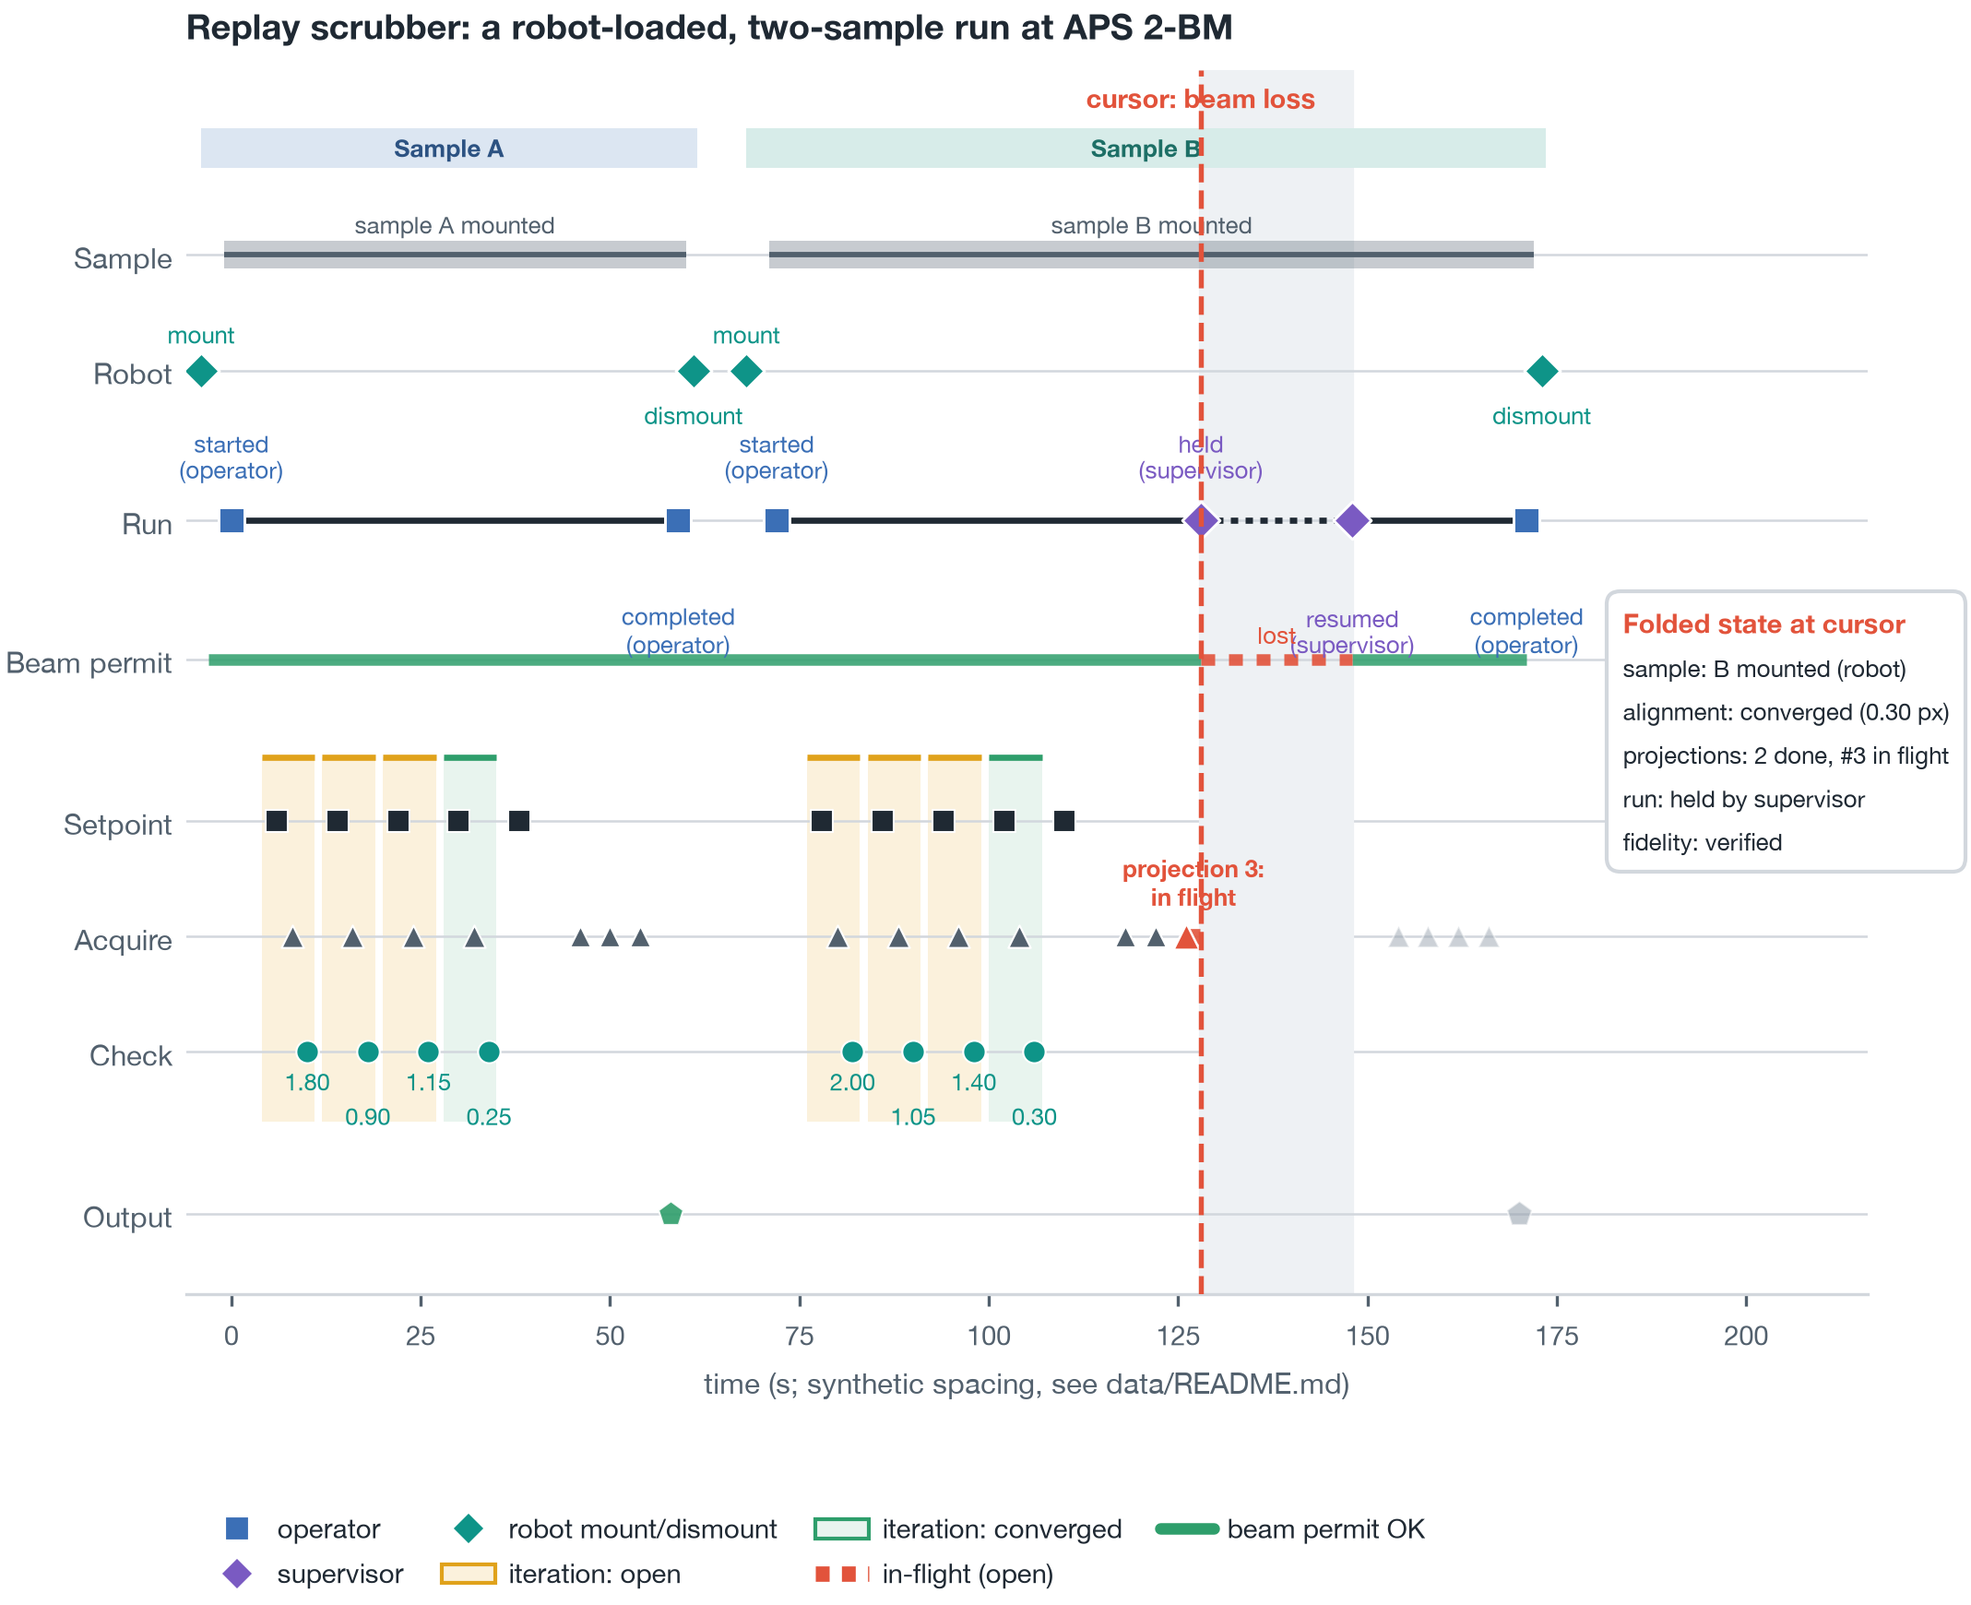
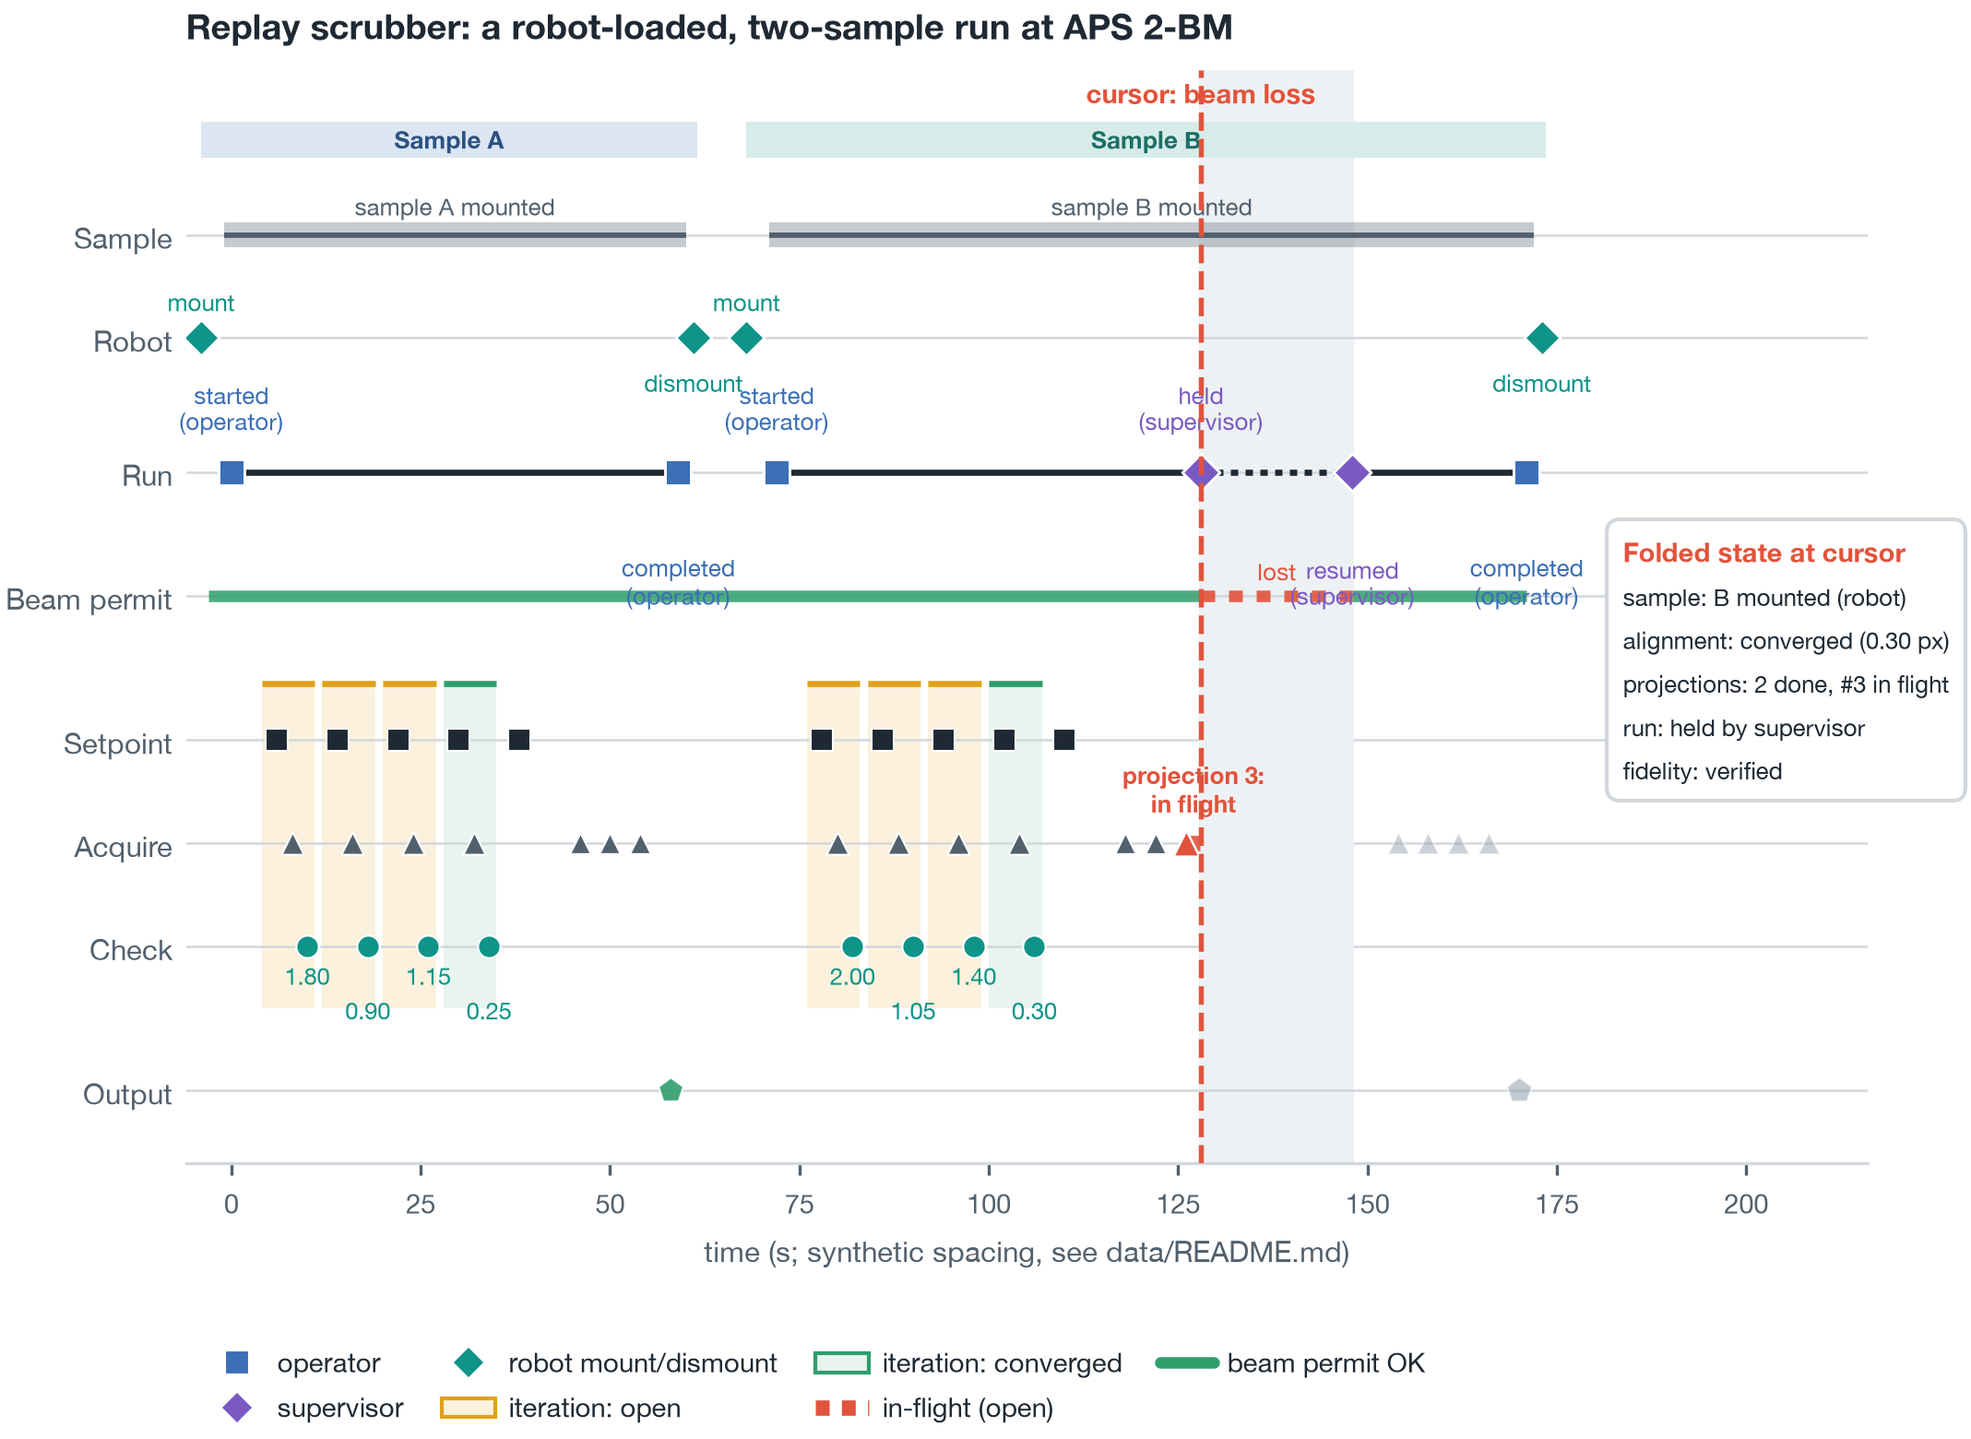
Rework scrubber paper prose for the robot-loaded two-sample run
Update the paper narrative to match the demonstrated robot-loaded campaign:

- Section 3 walkthrough + Figure 1 caption + lane description: two samples
  loaded by the robot in turn under one campaign, a sample-custody lane and a
  robot mount/dismount lane, per-sample recentering to each sample's own center,
  with the beam-loss hold/resume on the second sample.
- Section 7: add an honest deployed-vs-modeled scope for the robot framing
  (hardware + EPICS control deployed and has run; CORA orchestration modeled;
  the FOV/lens/recenter decision layer out of scope), mirroring the beam-loss
  scoping.
- Trim banked redundancies (the triply-stated conjunction sentence in the
  intro; a substrate sentence that overlapped the new event-vocabulary table)
  and reduce Figure 1 height to reclaim space.

diff --git a/papers/2026-vaxautosci-scrubber/sections/scrubber.tex b/papers/2026-vaxautosci-scrubber/sections/scrubber.tex
@@ -7,25 +7,26 @@
 \begin{figure*}[t]
   \centering
   \includegraphics[width=\textwidth]{figures/f1_scrubber}
-  \caption{The replay scrubber over one agent-supervised run at APS
-  2-BM. Color-coded bars across the top name the run's phases (alignment, scan,
-  save). A run-lifecycle lane records who drove each transition and carries a
-  continuous state line at the same height as the markers, solid while the run is
-  active and dashed while held: the operator
-  started and the run completes, while the supervisor agent held the run when the
-  beam dropped and resumed it when the beam returned (the gray band is the hold;
-  the two hatched bands are the fly-scan setup, the rotary taxi to constant
-  velocity and trigger arm, needed before the first frame and again after the
-  hold). A beam-permit lane shows the safety envelope the supervisor gates on:
-  satisfied except across the hold, where it reads lost. Below, the setpoint,
-  acquire, and check swim-lanes, with one verdict-tinted band per pass of the
-  conducted rotation-axis centering search (amber open, green converged) grouping
-  that pass's three activities. The fold-to-version cursor is parked at the
-  beam-loss instant: folding the event stream to there reconstructs the state
-  shown in the read-out, including the third projection as an open interval (its
-  in-flight marker is recorded but its outcome is not yet). Past the cursor,
-  after the run resumes, the scan runs to completion and the dataset is written
-  to disk. Time spacing is synthetic.}
+  \caption{The replay scrubber over one robot-loaded, two-sample session at APS
+  2-BM. Color-coded bars across the top name each sample's phases (alignment,
+  scan, save). A sample-custody lane shows which sample is on the stage: a band
+  while a sample is mounted, a gap during the robot swap; the robot lane below it
+  marks each mount and dismount driven by the sample-changer. A run-lifecycle
+  lane records who drove each transition and carries a continuous state line at
+  the same height as the markers, solid while a run is active and dashed while
+  held: the operator started each run and it completes, while on the second
+  sample the supervisor agent held the run when the beam dropped and resumed it
+  when the beam returned (the gray band is the hold). A beam-permit lane shows
+  the safety envelope the supervisor gates on: satisfied except across the hold,
+  where it reads lost. Below, the setpoint, acquire, and check swim-lanes, with
+  one verdict-tinted band per pass of the conducted rotation-axis centering
+  search (amber open, green converged) grouping that pass's three activities;
+  each sample is recentered to its own converged position. The fold-to-version
+  cursor is parked at the beam-loss instant on the second sample: folding the
+  event stream to there reconstructs the state shown in the read-out, including
+  the third projection as an open interval (its in-flight marker is recorded but
+  its outcome is not yet). Past the cursor, after the run resumes, the scan runs
+  to completion and the dataset is written to disk. Time spacing is synthetic.}
   \label{fig:scrubber}
 \end{figure*}
 
@@ -33,7 +34,7 @@ Before the mechanics, the experience. The scrubber turns a finished run into
 something a scientist can play back: drag a handle along time and the run
 re-forms at that instant, the way a video scrubber jumps to a frame.
 
-The scrubber presents one recorded run on a single horizontal time axis
+The scrubber presents one recorded session on a single horizontal time axis
 (Figure~\ref{fig:scrubber}), a stack of lanes that each answer a different
 question. The activity swim-lanes carry one track per kind of step the run
 performs, a position setpoint, an acquisition, a check, and the dataset write to
@@ -41,8 +42,11 @@ disk, with every activity drawn at its recorded time within its lane. Above them
 a run-lifecycle lane records the autonomous arc, who or what caused each
 transition, colored by actor, so an auditor sees at a glance where control passed
 between the operator and the supervisor agent; and a beam-permit lane shows the
-safety envelope the supervisor gates on, satisfied except across the hold. Color-coded
-bars across the top name the run's phases (alignment, scan, save). The iterative
+safety envelope the supervisor gates on, satisfied except across the hold. Higher
+still, a sample-custody lane and a robot lane record which sample the
+sample-changer had mounted at each instant and when it swapped them, so a step is
+attributed to the right sample. Color-coded bars across the top name each
+sample's phases (alignment, scan, save). The iterative
 structure of the conducted alignment is shown as one shaded band per pass, each
 tinted by that pass's recorded verdict and grouping the pass's setpoint, acquire,
 and check. An activity that was opened but never closed, the
@@ -78,30 +82,39 @@ append-only and the expansion is content-addressed, into something a reader can
 see at the exact instant they are inspecting, rather than a claim they must take
 on faith.
 
-We walk through an unattended, agent-supervised run on APS 2-BM. An operator
-starts the run and leaves; the system conducts the pre-scan rotation-axis centering
-alignment, a four-iteration peak-bracket search over the sample stage
-\texttt{SampleTop\_X} that minimizes the center-of-rotation residual. The
-residual falls from $2.00$ to $1.05$\,px, rises to $1.40$\,px at $0.080$\,mm
-(bracketing the minimum in $[0.040, 0.080]$\,mm), and the fourth pass bisects to
-$0.060$\,mm at $0.30$\,px and converges; read by color, the iteration bands show
-the verdict sequence open, open, open, converged (T3). The science scan begins; two
-projections complete and the third is in flight when the beam drops. The supervisor
-agent holds the run; the beam returns and the supervisor resumes it, each
-transition recorded as the agent's decision in the lifecycle lane. With the
-cursor at the beam-loss instant (Figure~\ref{fig:scrubber}), the fold shows the
-alignment already converged, two projections done and the third still open, and the run held
-by the agent, and the fidelity badge confirms that the reconstructed recipe
-expansion is faithful to the hash recorded at run start (T4).
+We walk through an unattended, robot-loaded session on APS 2-BM. An operator
+queues two samples and leaves; a sample-changing robot loads each in turn, and
+the session runs as one campaign of two runs on a single time axis. For each
+sample the robot mounts it onto the rotary stage (the sample-custody lane opens),
+and the system conducts a pre-scan rotation-axis centering alignment, a
+four-iteration peak-bracket search over the sample stage \texttt{SampleTop\_X}
+that minimizes the center-of-rotation residual. Each sample converges to its own
+center, the position of that sample relative to the fixed rotation axis. We read
+the second sample's leg: the residual falls from $2.00$ to $1.05$\,px, rises to
+$1.40$\,px at $0.080$\,mm (bracketing the minimum in $[0.040, 0.080]$\,mm), and
+the fourth pass bisects to $0.060$\,mm at $0.30$\,px and converges; read by
+color, the iteration bands show the verdict sequence open, open, open, converged
+(T3). The science scan begins; two projections complete and the third is in
+flight when the beam drops. The supervisor agent holds the run; the beam returns
+and the supervisor resumes it, each transition recorded as the agent's decision
+in the lifecycle lane. With the cursor at the beam-loss instant
+(Figure~\ref{fig:scrubber}), the fold shows sample B mounted by the robot, its
+alignment already converged, two projections done and the third still open, and
+the run held by the agent, and the fidelity badge confirms that the
+reconstructed recipe expansion is faithful to the hash recorded at run start
+(T4).
 
-Read as a morning audit, the same run answers the auditor's questions in the
-order they arise. Dragging the cursor into the gap in the held band localizes the
-third projection as an open interval, exactly the exposure in flight when the
-beam dropped, rather than guessing it (T1, developed in Section~\ref{sec:crash}).
-Dragging to the resume transition opens its decision, the supervisor resumed
-because the start-safety envelope was satisfied again, and the folded state shows
-what the agent saw at that instant (T2). In a few minutes, and without re-running
-anything, the auditor has recovered what the run did overnight, what was
+Read as a morning audit, the same session answers the auditor's questions in the
+order they arise. Reading the sample-custody lane at any instant says which
+sample was on the stage and who put it there, so an interrupted exposure is
+attributed to the right sample without cross-referencing a loader log. Dragging
+the cursor into the gap in the held band localizes the third projection as an
+open interval, exactly the exposure in flight when the beam dropped, rather than
+guessing it (T1, developed in Section~\ref{sec:crash}). Dragging to the resume
+transition opens its decision, the supervisor resumed because the start-safety
+envelope was satisfied again, and the folded state shows what the agent saw at
+that instant (T2). In a few minutes, and without re-running anything, the auditor
+has recovered what the two-sample session did overnight, which sample was
 interrupted, and why the agent acted.
 
 \textbf{Formalization.} The mechanism behind that walkthrough is a single fold.

diff --git a/papers/2026-vaxautosci-scrubber/sections/limitations.tex b/papers/2026-vaxautosci-scrubber/sections/limitations.tex
@@ -12,10 +12,11 @@ The figures are not mock-ups. They derive from one passing integration
 scenario, exercised against a real Kernel and Postgres event store, and the run
 data, its generator, and the per-figure render scripts are released with the
 paper. What is real is what that scenario produced and we mirrored into the
-figure data: the activities, the four iteration verdicts (open, open, open,
-converged), the four run-lifecycle events, and the supervisor's hold and resume
-decisions, each recorded as a real event in the run with the decision that drove
-it. What is modeled rather than deployed is the beam-loss instant that triggers
+figure data: the two runs grouped under one campaign, the robot mount and
+dismount events that open and close each sample's custody, the per-sample
+iteration verdicts (open, open, open, converged), the run-lifecycle events, and
+the supervisor's hold and resume decisions, each recorded as a real event with
+the decision that drove it. What is modeled rather than deployed is the beam-loss instant that triggers
 them: at 2-BM-B today a beam drop during the fly scan is not detected by the
 instrument controls (the position triggers keep firing the camera regardless of
 X-rays, blank frames are saved through the drop, and the scan completes
@@ -27,7 +28,25 @@ loop, and a beam-permit bridge that emits the synchrotron's beam state, owned by
 the facility, into the same event stream. Both are proposed rather than built;
 the supervisor reaction we demonstrate is what CORA would drive once that signal
 arrives, played through the same real Kernel and Postgres event store as the
-rest of the run. What is synthetic is only the per-event timestamps,
+rest of the run.
+
+The robot-loaded framing has a similar deployed-versus-modeled boundary worth
+stating. The sample-change hardware at 2-BM is real: a robot arm with its own
+control layer that has executed mount and dismount cycles with a handshake that
+moves the sample stage to a taught pose, verifies it by readback, and returns
+it, and the instrument's scan software is scriptable over the same interface and
+already iterates a batch of per-sample scans. Interleaving a mount before and a
+dismount after each scan is therefore a small orchestration script over existing
+interfaces rather than new infrastructure. What we model, and record as events,
+is CORA's orchestration of that robot as a positioner asset with per-sample
+subject custody; the demonstrated campaign plays those custody events through
+the same event store as the runs they bracket. What remains out of scope is the
+supervisor decision layer beyond hold and resume that a fuller robot-loaded run
+would exercise: the per-sample field-of-view fit check, the branch between a
+local scan and a lens change, and per-sample recentering as a recorded
+supervised decision rather than a conducted procedure. These are the same class
+of recorded decisions the scrubber already renders, and they would be audited
+the same way once modeled. What is synthetic is only the per-event timestamps,
 staggered for a readable axis because the scenario records one logical instant;
 the overnight wall-clock spread is illustrative, stated in prose rather than
 measured. The generator depends on nothing but the standard library and needs no

diff --git a/papers/2026-vaxautosci-scrubber/sections/substrate.tex b/papers/2026-vaxautosci-scrubber/sections/substrate.tex
@@ -32,12 +32,10 @@ carry the verdict that colors each iteration band (T3). The swim-lane
 activities, the setpoint, acquire, check, and output rows, are themselves events appended as the
 system acts, with the intent recorded before the effect (the open-interval mechanism of
 Section~\ref{sec:crash}).
-Concretely, the example run is a four-event run-lifecycle stream (started, held,
-resumed, completed) alongside a twelve-event procedure stream with around two
-dozen activity rows; folding a prefix returns the reconstructed run and
-procedure state (status, the current iteration and its verdict, and whether each
-activity is open or closed), and the recorded hashes cover the recipe expansion,
-the resolved steps and parameter bindings, written at run start.
+Folding a prefix returns the reconstructed run and procedure state (status, the
+current iteration and its verdict, and whether each activity is open or closed),
+and the recorded hashes cover the recipe expansion, the resolved steps and
+parameter bindings, written at run start.
 
 The stream is multi-owner. Every event's envelope carries an actor field
 (Table~\ref{tab:schema}), so different actors, the operator, the supervisor

diff --git a/papers/2026-vaxautosci-scrubber/sections/intro.tex b/papers/2026-vaxautosci-scrubber/sections/intro.tex
@@ -67,11 +67,6 @@ same decision substrate, the supervised case is the near end of a progression,
 the open question of what oversight, replay, and accountability should look like
 as automation moves from agent-supervised toward agent-closed.
 
-The novelty is not a timeline or time travel as such, but their conjunction in
-this setting: deterministic event-stream replay, provenance visualization, a
-content-addressed fidelity check run at the cursor, and a task abstraction for
-auditing autonomous runs.
-
 \medskip\noindent This paper makes four contributions:
 \begin{itemize}
   \item \textbf{Replay-native provenance (insight).} We reframe the

diff --git a/papers/2026-vaxautosci-scrubber/figures/render_f1.py b/papers/2026-vaxautosci-scrubber/figures/render_f1.py
@@ -73,7 +73,7 @@ def main() -> None:
     beam_back = secs(prov["beam_back_at"])
     xmax = max(secs(a["sampled_at"]) for a in acts)
 
-    fig, ax = s.figure(s.FULL_WIDTH, 5.8)
+    fig, ax = s.figure(s.FULL_WIDTH, 5.2)
 
     for y in LANE_Y.values():
         ax.axhline(y, color=s.RULE, lw=0.6, zorder=0)
